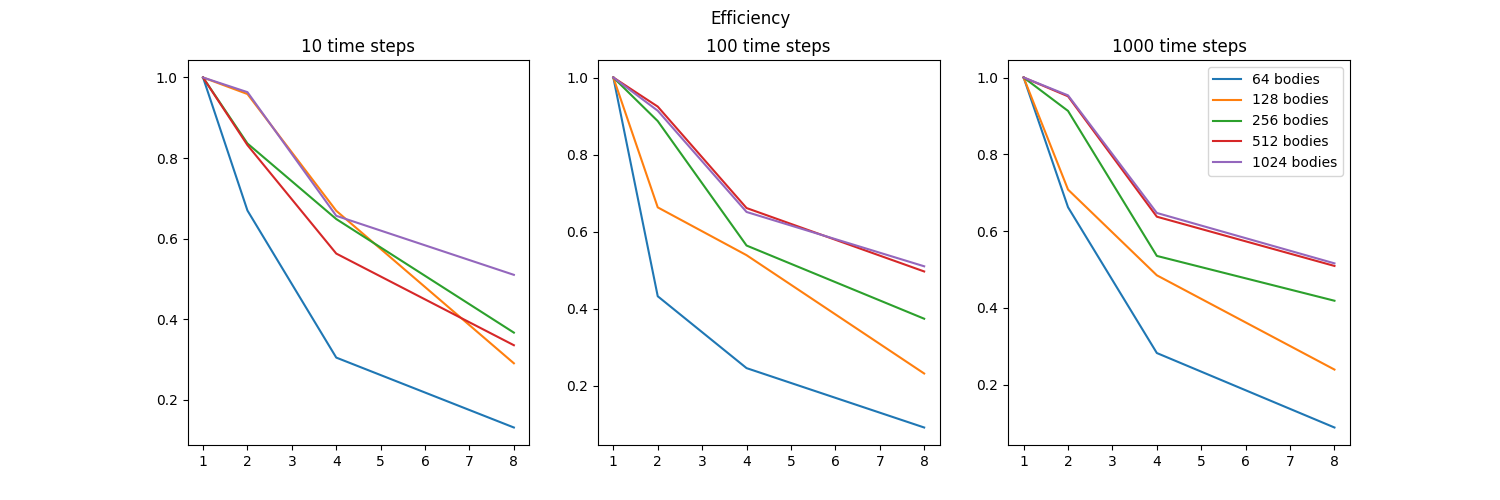
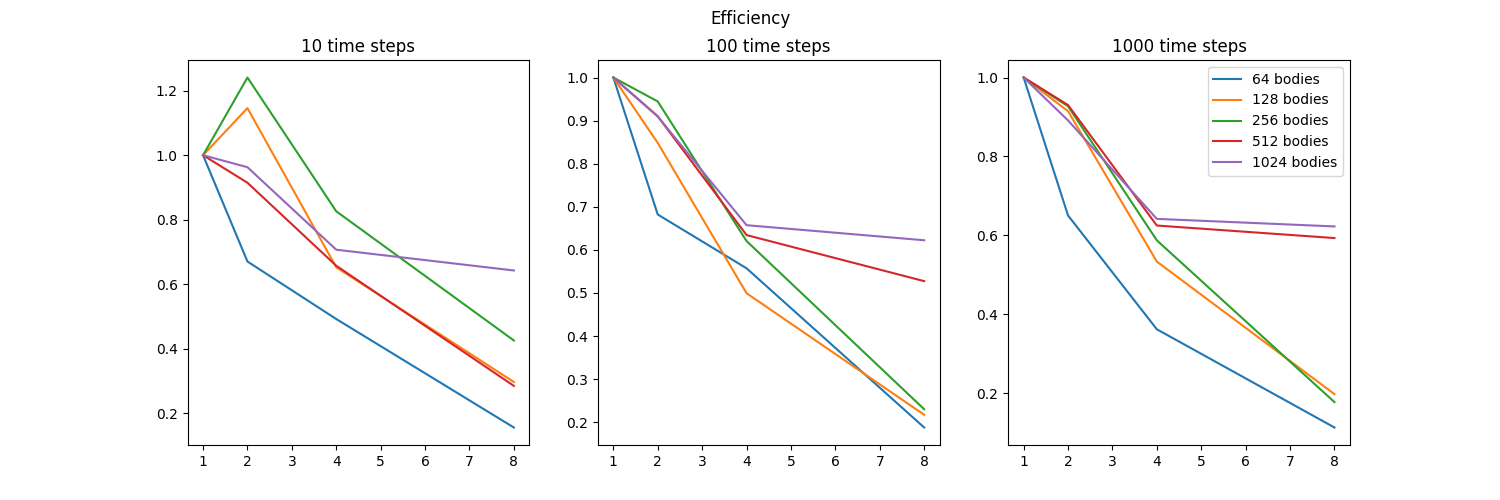
Optimize code
- remove one needless barrier syncronization
- fix timings
- avoid unnecessary memory allocations and freeing for masses, accelerations, positions and velocities

diff --git a/lab1-parallel.c b/lab1-parallel.c
@@ -11,7 +11,6 @@ pthread_barrier_t barrier;
 int threadCount;
 FILE* outputFile;
 double computationsTime;
-double writingStart, writingEnd;
 int timeSteps;
 vec *nextPositions, *nextVelocities;
 
@@ -120,13 +119,9 @@ void* routine(void* nthread){
         pthread_barrier_wait(&barrier);
         updateArrays(myFirstPoint, myLastPoint);
         pthread_barrier_wait(&barrier);
-        if (myNthread == 0){
-            GET_TIME(writingStart);
-            writeTimeStepInfo(outputFile, timeStep);
-            GET_TIME(writingEnd);
-            computationsTime -= writingEnd - writingStart;
-        }
-        pthread_barrier_wait(&barrier);
+        // if (myNthread == 0){
+        //     writeTimeStepInfo(outputFile, timeStep);
+        // }
     }
     return NULL;
 }
@@ -156,20 +151,24 @@ int main(){
 
     for (threadCount = 1; threadCount <= 8; threadCount *= 2){
         for (bodies = 64; bodies <= 1024; bodies *= 2){
+            masses = (double *)malloc(bodies * sizeof(double));
+            positions = (vec *)malloc(bodies * sizeof(vec));
+            velocities = (vec *)malloc(bodies * sizeof(vec));
+            accelerations = (vec *)malloc(bodies * sizeof(vec));
             nextPositions = (vec *)malloc(bodies * sizeof(vec));
             nextVelocities = (vec *)malloc(bodies * sizeof(vec));
             sprintf(inputFileName, "input/input-%d.txt", bodies);
             for (timeSteps = 10; timeSteps <= 1000; timeSteps *= 10){
                 initiateSystem(inputFileName);
-                sprintf(
-                    outputFileName,
-                    "output/output-parallel-%d-%d-%d.csv",
-                    threadCount,
-                    bodies,
-                    timeSteps
-                );
-                outputFile = fopen(outputFileName, "w+");
-                writeHeader(outputFile);
+                // sprintf(
+                //     outputFileName,
+                //     "output/output-parallel-%d-%d-%d.csv",
+                //     threadCount,
+                //     bodies,
+                //     timeSteps
+                // );
+                // outputFile = fopen(outputFileName, "w+");
+                // writeHeader(outputFile);
 
                 computationsTime = 0;
                 
@@ -210,12 +209,12 @@ int main(){
                     DELIMITER,
                     computationsTime
                 );
-                fclose(outputFile);
-                free(masses);
-                free(accelerations);
-                free(velocities);
-                free(positions);
-            }  
+                // fclose(outputFile);
+            }
+            free(masses);
+            free(accelerations);
+            free(velocities);
+            free(positions);  
             free(nextPositions);
             free(nextVelocities);
         }

diff --git a/lab1-serial.c b/lab1-serial.c
@@ -86,40 +86,41 @@ int main(){
     FILE *outputFile;
     double time;
     double start, end;
-    double writingStart, writingEnd;
 
     for (bodies = 64; bodies <= 1024; bodies *= 2){
         sprintf(inputFileName, "input/input-%d.txt", bodies);
+        masses = (double *)malloc(bodies * sizeof(double));
+        positions = (vec *)malloc(bodies * sizeof(vec));
+        velocities = (vec *)malloc(bodies * sizeof(vec));
+        accelerations = (vec *)malloc(bodies * sizeof(vec));
         for (timeSteps = 10; timeSteps <= 1000; timeSteps *= 10){
             initiateSystem(inputFileName);
-            sprintf(
-                outputFileName,
-                "output/output-serial-%d-%d.csv",
-                bodies,
-                timeSteps
-            );
-            outputFile = fopen(outputFileName, "w+");
-            writeHeader(outputFile);
+            // sprintf(
+            //     outputFileName,
+            //     "output/output-serial-%d-%d.csv",
+            //     bodies,
+            //     timeSteps
+            // );
+            // outputFile = fopen(outputFileName, "w+");
+            // writeHeader(outputFile);
             
             time = 0;
             GET_TIME(start);
             for (timeStep = 1; timeStep < timeSteps + 1; ++timeStep){
                 simulate();
-                GET_TIME(writingStart);
-                writeTimeStepInfo(outputFile, timeStep);
-                GET_TIME(writingEnd);
-                time -= writingEnd - writingStart;
+                // writeTimeStepInfo(outputFile, timeStep);
             }
             GET_TIME(end);
             time += end - start;
 
-            fclose(outputFile);
+            // fclose(outputFile);
             printf("bodies=%d, timeSteps=%d: %f\n", bodies, timeSteps, time);
-            free(masses);
-            free(accelerations);
-            free(velocities);
-            free(positions);
+            
         }
+        free(masses);
+        free(accelerations);
+        free(velocities);
+        free(positions);
     }
     return 0;
 }

diff --git a/file-utils.c b/file-utils.c
@@ -1,4 +1,4 @@
-/* Код для чтения из файлов директории input и
+/* Код для чтения файлов директории input и
 записи в файлы директории output */
 #include "file-utils.h"
 
@@ -9,13 +9,8 @@ vec *positions, *velocities, *accelerations;
 void initiateSystem(char *fileName){
     int i;
     FILE *fp = fopen(fileName, "r");
-
     fscanf(fp, "%d", &bodies);
-    masses = (double *)malloc(bodies * sizeof(double));
-    positions = (vec *)malloc(bodies * sizeof(vec));
-    velocities = (vec *)malloc(bodies * sizeof(vec));
-    accelerations = (vec *)malloc(bodies * sizeof(vec));
-
+    
     for (i = 0; i < bodies; ++i){
         fscanf(fp, "%lf", &masses[i]);
         fscanf(fp, "%lf%lf", &positions[i].x, &positions[i].y);

diff --git a/README.md b/README.md
@@ -23,39 +23,30 @@
 ### Компиляция и запуск кода
 **1) generate-input.c**:
 ```console
-lyudmila@LAPTOP-7V39O4LI:~/lab1$ gcc generate-input -o generate-input
-```
-
-```console
-lyudmila@LAPTOP-7V39O4LI:~/lab1$./generate-input
+$ gcc generate-input -o generate-input
+$ ./generate-input
 ```
 
 **2) lab1-serial.c**
 ```console
-lyudmila@LAPTOP-7V39O4LI:~/lab1$ gcc lab1-serial.c file-utils.c vec.c -o lab1-serial -lm
-```
-
-```console
-lyudmila@LAPTOP-7V39O4LI:~/lab1$ ./lab1-serial
+$ gcc lab1-serial.c file-utils.c vec.c -o lab1-serial -lm
+$ ./lab1-serial
 ```
 
 **3) lab1-parallel.c**
 ```console
-lyudmila@LAPTOP-7V39O4LI:~/lab1$ gcc lab1-parallel.c file-utils.c vec.c -o lab1-parallel -lpthread -lm
-```
-
-```console
-lyudmila@LAPTOP-7V39O4LI:~/lab1$ ./lab1-parallel
+$ gcc lab1-parallel.c file-utils.c vec.c -o lab1-parallel -lpthread -lm
+$ ./lab1-parallel
 ```
 
 **4) visualization.py**
 ```console
-lyudmila@LAPTOP-7V39O4LI:~/lab1$ python3 visualization.py
+$ python3 visualization.py
 ```
 
 **5) create-plots.py**
 ```console
-lyudmila@LAPTOP-7V39O4LI:~/lab1$ python3 create-plots.py
+$ python3 create-plots.py
 ```
 
 ### Информация о системе
@@ -64,8 +55,8 @@ lyudmila@LAPTOP-7V39O4LI:~/lab1$ python3 create-plots.py
     Logical processors: 8
 
 ### Результаты
-![speedup](https://github.com/lpmaltina/lab1/blob/parallelization/plots/speedup.png)
+![speedup](https://github.com/lpmaltina/lab1/blob/main/plots/speedup.png)
 
 
-![efficiency](https://github.com/lpmaltina/lab1/blob/parallelization/plots/efficiency.png)
+![efficiency](https://github.com/lpmaltina/lab1/blob/main/plots/efficiency.png)
 
